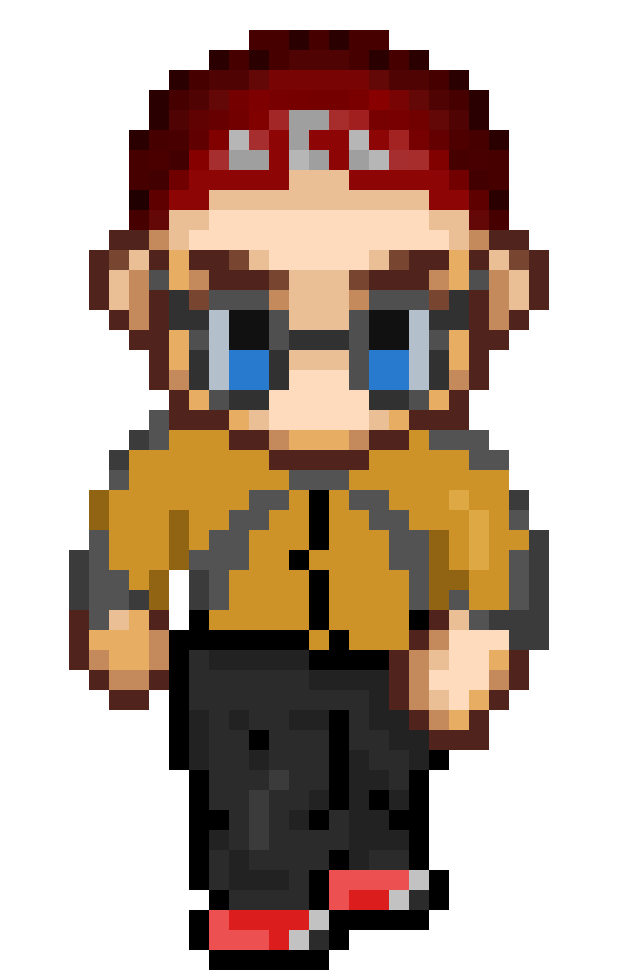
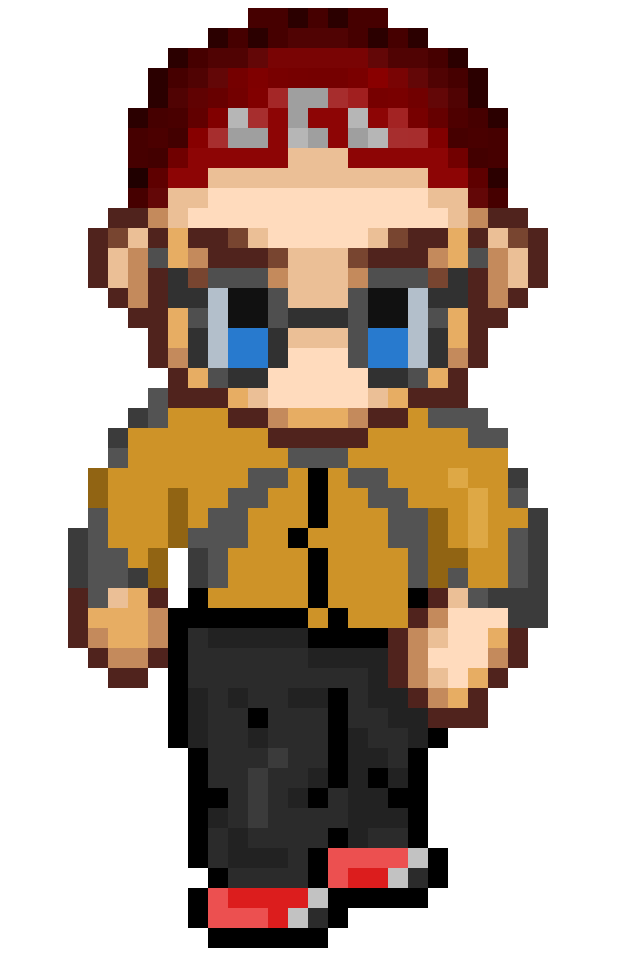
landing

diff --git a/assets/sass/layout/_characters.scss b/assets/sass/layout/_characters.scss
@@ -21,7 +21,7 @@
 
         .pajak {
             justify-content: flex-end;
-            background: url('./../../../../rezerwat99/images/loff.png') no-repeat;
+            background: url('/images/loff1.png') no-repeat;
             display: flex;
             height: 10rem;
             width: 8rem;
@@ -31,17 +31,18 @@
             animation-name: loff-walk;
             animation-duration: 0.8s;
             animation-iteration-count: infinite;
+            animation-timing-function: steps(1);
             
             @keyframes loff-walk {
-                0% {background: url('./../../../rezerwat99/images/loff.png') no-repeat; background-size: contain; background-position: right;}
-                50% {background: url('./../../../rezerwat99/images/loff2.png') no-repeat; background-size: contain; background-position: right;}
-                100% {background: url('./../../../rezerwat99/images/loff3.png') no-repeat; background-size: contain; background-position: right;}
+                0% {background: url('/images/loff1.png') no-repeat; background-size: contain; background-position: right;}
+                20% {background: url('/images/loff2.png') no-repeat; background-size: contain; background-position: right;}
+                60% {background: url('/images/loff3.png') no-repeat; background-size: contain; background-position: right;}
             }
         }
         
         .dex {
             justify-content: flex-start;
-            background: url('./../../../rezerwat99/images/dex.png') no-repeat;
+            background: url('/images/dex1.png') no-repeat;
             display: flex;
             height: 10rem;
             width: 8rem;
@@ -50,11 +51,26 @@
             animation-name: dex-walk;
             animation-duration: 0.8s;
             animation-iteration-count: infinite;
+            animation-timing-function: steps(1);
             
             @keyframes dex-walk {
-                0% {background: url('./../../../rezerwat99/images/dex.png') no-repeat; background-size: contain;}
-                50% {background: url('./../../../rezerwat99/images/dex2.png') no-repeat; background-size: contain;}
-                100% {background: url('./../../../rezerwat99/images/dex3.png') no-repeat; background-size: contain;}
+                0% {background: url('/images/dex1.png') no-repeat; background-size: contain;}
+                20% {background: url('/images/dex2.png') no-repeat; background-size: contain;}
+                60% {background: url('/images/dex3.png') no-repeat; background-size: contain;}
+            }
+        }
+
+        .frames {
+            animation-name: up-down;
+            animation-duration: 3s;
+            animation-iteration-count: infinite;
+            animation-timing-function: ease-in-out;
+            position: relative;
+
+            @keyframes up-down {
+                0% {top: -0.2rem;}
+                50% {top: 0.2rem;}
+                100% {top: -0.2rem;}
             }
         }
 
@@ -67,6 +83,20 @@
             a {
                 border: none;
             }
+
+            img {
+                padding: 0.2rem;
+                border-radius: 10%;
+                -moz-transition: background-color 0.2s ease-in-out;
+                -webkit-transition: background-color 0.2s ease-in-out;
+                -ms-transition: background-color 0.2s ease-in-out;
+                transition: background-color 0.2s ease-in-out;
+            }
+
+            img:hover {
+                background-color: rgba(255, 255, 255, 0.075);
+            }
+
         }
 
         .character {

diff --git a/assets/css/main.css b/assets/css/main.css
@@ -1065,7 +1065,7 @@ body.is-preload #bg:before {
 }
 #characters-wrapper .pajak {
   justify-content: flex-end;
-  background: url("./../../../../rezerwat99/images/loff.png") no-repeat;
+  background: url("/images/loff1.png") no-repeat;
   display: flex;
   height: 10rem;
   width: 8rem;
@@ -1074,27 +1074,28 @@ body.is-preload #bg:before {
   animation-name: loff-walk;
   animation-duration: 0.8s;
   animation-iteration-count: infinite;
+  animation-timing-function: steps(1);
 }
 @keyframes loff-walk {
   0% {
-    background: url("./../../../rezerwat99/images/loff.png") no-repeat;
+    background: url("/images/loff1.png") no-repeat;
     background-size: contain;
     background-position: right;
   }
-  50% {
-    background: url("./../../../rezerwat99/images/loff2.png") no-repeat;
+  20% {
+    background: url("/images/loff2.png") no-repeat;
     background-size: contain;
     background-position: right;
   }
-  100% {
-    background: url("./../../../rezerwat99/images/loff3.png") no-repeat;
+  60% {
+    background: url("/images/loff3.png") no-repeat;
     background-size: contain;
     background-position: right;
   }
 }
 #characters-wrapper .dex {
   justify-content: flex-start;
-  background: url("./../../../rezerwat99/images/dex.png") no-repeat;
+  background: url("/images/dex1.png") no-repeat;
   display: flex;
   height: 10rem;
   width: 8rem;
@@ -1102,19 +1103,38 @@ body.is-preload #bg:before {
   animation-name: dex-walk;
   animation-duration: 0.8s;
   animation-iteration-count: infinite;
+  animation-timing-function: steps(1);
 }
 @keyframes dex-walk {
   0% {
-    background: url("./../../../rezerwat99/images/dex.png") no-repeat;
+    background: url("/images/dex1.png") no-repeat;
     background-size: contain;
+  }
+  20% {
+    background: url("/images/dex2.png") no-repeat;
+    background-size: contain;
+  }
+  60% {
+    background: url("/images/dex3.png") no-repeat;
+    background-size: contain;
+  }
+}
+#characters-wrapper .frames {
+  animation-name: up-down;
+  animation-duration: 3s;
+  animation-iteration-count: infinite;
+  animation-timing-function: ease-in-out;
+  position: relative;
+}
+@keyframes up-down {
+  0% {
+    top: -0.2rem;
   }
   50% {
-    background: url("./../../../rezerwat99/images/dex2.png") no-repeat;
-    background-size: contain;
+    top: 0.2rem;
   }
   100% {
-    background: url("./../../../rezerwat99/images/dex3.png") no-repeat;
-    background-size: contain;
+    top: -0.2rem;
   }
 }
 #characters-wrapper .social-wrapper {
@@ -1125,6 +1145,17 @@ body.is-preload #bg:before {
 }
 #characters-wrapper .social-wrapper a {
   border: none;
+}
+#characters-wrapper .social-wrapper img {
+  padding: 0.2rem;
+  border-radius: 10%;
+  -moz-transition: background-color 0.2s ease-in-out;
+  -webkit-transition: background-color 0.2s ease-in-out;
+  -ms-transition: background-color 0.2s ease-in-out;
+  transition: background-color 0.2s ease-in-out;
+}
+#characters-wrapper .social-wrapper img:hover {
+  background-color: rgba(255, 255, 255, 0.075);
 }
 #characters-wrapper .character {
   display: flex;

diff --git a/index.html b/index.html
@@ -6,7 +6,8 @@
 -->
 <html>
 	<head>
-		<title>🥦REZERWAT99</title>
+		<title>REZERWAT99</title>
+		<link rel="shortcut icon" type="image/jpg" href="/images/favicon.ico"/>
 		<meta charset="utf-8" />
 		<meta name="viewport" content="width=device-width, initial-scale=1, user-scalable=no" />
 		<link rel="stylesheet" href="assets/css/main.css" />
@@ -47,10 +48,14 @@
 									<a href="https://vm.tiktok.com/ZM8gdJGmd/" target="_blank"><img src="./images/tiktok-logo.png" alt="tiktok-logo"></a>
 								</div>
 							</div>
-							<div class="pajak"></div>
+							<div class="frames">
+								<div class="pajak"></div>
+							</div>
 						</div>
 						<div class="character">
-							<div class="dex"></div>
+							<div class="frames">
+								<div class="dex"></div>
+							</div>
 							<div class="social-wrapper">
 								<div class="ig">
 									<a href="https://www.instagram.com/dex_tear/" target="_blank"><img src="./images/instagram-logo.png" alt="instagram-logo"></a>
